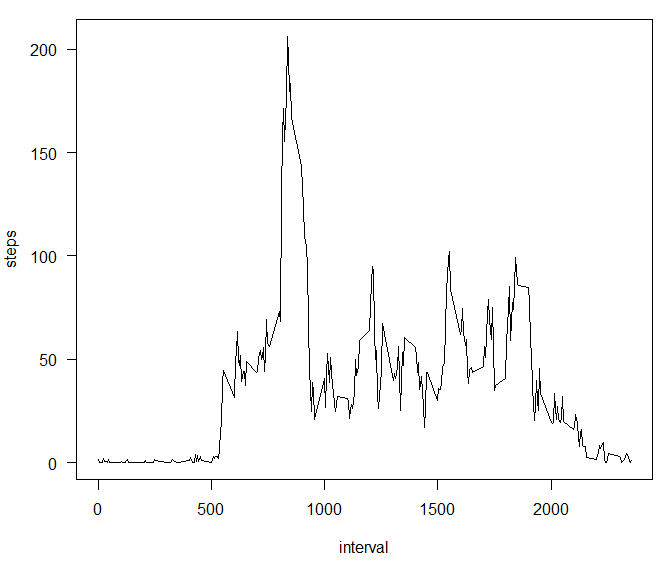
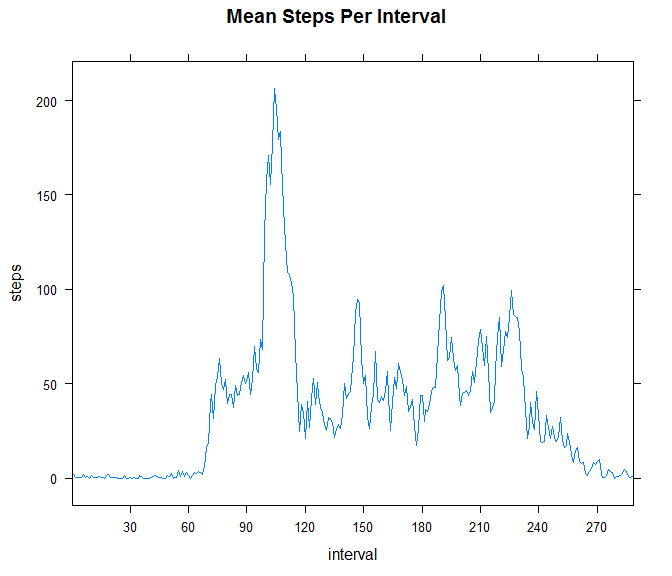
Second submission - cleanup

diff --git a/PA1_template.html b/PA1_template.html
@@ -78,21 +78,25 @@ if (file.exists(&quot;activity.csv&quot;) == F) {
         df.org &lt;- read.csv(unz(fileZip,&quot;activity.csv&quot;))
 }
 
-# Convert the date into POSICct
+# Convert the date into POSIXct
 df.org$date &lt;- as.POSIXct(df.org$date)
+
+# Convert the interval into factor
+df.org$interval &lt;- as.factor(df.org$interval)
+
 str(df.org)</code></pre>
 <pre><code>## 'data.frame':    17568 obs. of  3 variables:
 ##  $ steps   : int  NA NA NA NA NA NA NA NA NA NA ...
 ##  $ date    : POSIXct, format: &quot;2012-10-01&quot; &quot;2012-10-01&quot; ...
-##  $ interval: int  0 5 10 15 20 25 30 35 40 45 ...</code></pre>
+##  $ interval: Factor w/ 288 levels &quot;0&quot;,&quot;5&quot;,&quot;10&quot;,&quot;15&quot;,..: 1 2 3 4 5 6 7 8 9 10 ...</code></pre>
 <p>Using the reshape package’s melt and cast functions, transform the original data set into required format to answer the questions</p>
-<pre class="r"><code>library(reshape)
-
-molten &lt;- melt(df.org, id.vars=c(&quot;date&quot;, &quot;interval&quot;), na.rm=TRUE)
+<pre class="r"><code>require(reshape)</code></pre>
+<pre><code>## Loading required package: reshape</code></pre>
+<pre class="r"><code>molten &lt;- melt(df.org, id.vars=c(&quot;date&quot;, &quot;interval&quot;), na.rm=TRUE)
 str(molten)</code></pre>
 <pre><code>## 'data.frame':    15264 obs. of  4 variables:
 ##  $ date    : POSIXct, format: &quot;2012-10-02&quot; &quot;2012-10-02&quot; ...
-##  $ interval: int  0 5 10 15 20 25 30 35 40 45 ...
+##  $ interval: Factor w/ 288 levels &quot;0&quot;,&quot;5&quot;,&quot;10&quot;,&quot;15&quot;,..: 1 2 3 4 5 6 7 8 9 10 ...
 ##  $ variable: Factor w/ 1 level &quot;steps&quot;: 1 1 1 1 1 1 1 1 1 1 ...
 ##  $ value   : int  0 0 0 0 0 0 0 0 0 0 ...</code></pre>
 <p>Now that we have the molten data from the original data set, we can calculate the aggregate per day</p>
@@ -115,23 +119,25 @@ Median number of steps per day = 10765</code></pre>
 <p>Fist we cast the molten data into a new data frame which can help us answer this question</p>
 <pre class="r"><code>steps.per.interval &lt;- cast(molten, interval ~ variable, mean)</code></pre>
 <p>We plot a time series of the 5-minute interval (x-axis) and the average number of steps taken, averaged accross all days (y-axis)</p>
-<pre class="r"><code>par(mar = c(5,4,1,1), las=1)
-with(steps.per.interval, plot(interval, steps, type=&quot;l&quot;))</code></pre>
[1 lines of base64/hex data omitted]
+<pre class="r"><code>require(lattice)</code></pre>
+<pre><code>## Loading required package: lattice</code></pre>
+<pre class="r"><code>xaxis.ticks &lt;- seq(0, nrow(steps.per.interval), by = 30)
+xyplot(steps ~ interval, data = steps.per.interval, main = &quot;Mean Steps Per Interval&quot;, layout=c(1,1), type=c(&quot;l&quot;), scales=list(x=list(at=xaxis.ticks)))</code></pre>
[1 lines of base64/hex data omitted]
 <p>Which 5-minute interval, on average across all the days in the dataset, contains the maximum number of steps?</p>
-<pre class="r"><code>with(steps.per.interval, interval[which(steps == max(steps))])</code></pre>
-<pre><code>## [1] 835</code></pre>
+<pre class="r"><code>interval.with.maxsteps &lt;- with(steps.per.interval, interval[which(steps == max(steps))])</code></pre>
+<pre><code>Interval with maximum steps = 835</code></pre>
 </div>
 <div id="imputing-missing-values" class="section level2">
 <h2>Imputing missing values</h2>
-<p>Create a new data frame with the missing values replaces by the mean steps per interval</p>
+<p>Create a new data frame with the missing values replaced by the mean steps per interval</p>
 <pre class="r"><code>df.imp &lt;- df.org
 df.imp$steps &lt;- ifelse(is.na(df.org$steps) == TRUE, steps.per.interval$steps[steps.per.interval$interval %in% df.org$interval], df.org$steps)
 str(df.imp)</code></pre>
 <pre><code>## 'data.frame':    17568 obs. of  3 variables:
 ##  $ steps   : num  1.717 0.3396 0.1321 0.1509 0.0755 ...
 ##  $ date    : POSIXct, format: &quot;2012-10-01&quot; &quot;2012-10-01&quot; ...
-##  $ interval: int  0 5 10 15 20 25 30 35 40 45 ...</code></pre>
+##  $ interval: Factor w/ 288 levels &quot;0&quot;,&quot;5&quot;,&quot;10&quot;,&quot;15&quot;,..: 1 2 3 4 5 6 7 8 9 10 ...</code></pre>
 <p>Melt the new data frame</p>
 <pre class="r"><code>molten.imp &lt;- melt(df.imp, id=c(&quot;date&quot;, &quot;interval&quot;))</code></pre>
 <p>Now that we have the molten data from the imputed data set, we can calculate the aggregate per day</p>
@@ -154,15 +160,14 @@ Median number of steps per day = 10765</code></pre>
 <h2>Are there differences in activity patterns between weekdays and weekends?</h2>
 <p>Create a new variable representing the weekday</p>
 <pre class="r"><code>df.imp$day &lt;- as.factor(ifelse(weekdays(df.imp$date) %in% c(&quot;Saturday&quot;, &quot;Sunday&quot;), &quot;weekend&quot;, &quot;weekday&quot;))
-df.imp$interval &lt;- as.factor(df.imp$interval)</code></pre>
+#df.imp$interval &lt;- as.factor(df.imp$interval)</code></pre>
 <p>Melt this again to cater for the new variable added.</p>
 <pre class="r"><code>molten.new &lt;- melt(df.imp, id=c(&quot;day&quot;, &quot;interval&quot;), measure=c(&quot;steps&quot;))
 weekday.cast &lt;- cast(molten.new, day+interval~variable, mean)</code></pre>
 <p>Plot the average steps per interval for the weekend days and week days.</p>
 <pre class="r"><code>#Create the Weekend vs Weekday plot
-require(lattice)</code></pre>
-<pre><code>## Loading required package: lattice</code></pre>
-<pre class="r"><code>xaxis.ticks &lt;- seq(0, nrow(weekday.cast), by = 30)
+require(lattice)
+xaxis.ticks &lt;- seq(0, nrow(weekday.cast), by = 30)
 xyplot(steps ~ interval | day, data = weekday.cast, layout=c(1,2), type=c(&quot;l&quot;), scales=list(x=list(at=xaxis.ticks)))</code></pre>
[1 lines of base64/hex data omitted]
 </div>

diff --git a/PA1_template.md b/PA1_template.md
@@ -33,8 +33,12 @@ if (file.exists("activity.csv") == TRUE){
         df.org <- read.csv(unz(fileZip,"activity.csv"))
 }
 
-# Convert the date into POSICct
+# Convert the date into POSIXct
 df.org$date <- as.POSIXct(df.org$date)
+
+# Convert the interval into factor
+df.org$interval <- as.factor(df.org$interval)
+
 str(df.org)
 ```
 
@@ -42,15 +46,21 @@ str(df.org)
 ## 'data.frame':	17568 obs. of  3 variables:
 ##  $ steps   : int  NA NA NA NA NA NA NA NA NA NA ...
 ##  $ date    : POSIXct, format: "2012-10-01" "2012-10-01" ...
-##  $ interval: int  0 5 10 15 20 25 30 35 40 45 ...
+##  $ interval: Factor w/ 288 levels "0","5","10","15",..: 1 2 3 4 5 6 7 8 9 10 ...
 ```
 
 Using the reshape package's melt and cast functions, transform the original data set into required format to answer the questions
 
 
 ```r
-library(reshape)
+require(reshape)
+```
 
+```
+## Loading required package: reshape
+```
+
+```r
 molten <- melt(df.org, id.vars=c("date", "interval"), na.rm=TRUE)
 str(molten)
 ```
@@ -58,7 +68,7 @@ str(molten)
 ```
 ## 'data.frame':	15264 obs. of  4 variables:
 ##  $ date    : POSIXct, format: "2012-10-02" "2012-10-02" ...
-##  $ interval: int  0 5 10 15 20 25 30 35 40 45 ...
+##  $ interval: Factor w/ 288 levels "0","5","10","15",..: 1 2 3 4 5 6 7 8 9 10 ...
 ##  $ variable: Factor w/ 1 level "steps": 1 1 1 1 1 1 1 1 1 1 ...
 ##  $ value   : int  0 0 0 0 0 0 0 0 0 0 ...
 ```
@@ -104,8 +114,16 @@ steps.per.interval <- cast(molten, interval ~ variable, mean)
 We plot a time series of the 5-minute interval (x-axis) and the average number of steps taken, averaged accross all days (y-axis)
 
 ```r
-par(mar = c(5,4,1,1), las=1)
-with(steps.per.interval, plot(interval, steps, type="l"))
+require(lattice)
+```
+
+```
+## Loading required package: lattice
+```
+
+```r
+xaxis.ticks <- seq(0, nrow(steps.per.interval), by = 30)
+xyplot(steps ~ interval, data = steps.per.interval, main = "Mean Steps Per Interval", layout=c(1,1), type=c("l"), scales=list(x=list(at=xaxis.ticks)))
 ```
 
 ![plot of chunk Mean_Steps_Per_Interval](./PA1_template_files/figure-html/Mean_Steps_Per_Interval.png) 
@@ -113,16 +131,16 @@ with(steps.per.interval, plot(interval, steps, type="l"))
 Which 5-minute interval, on average across all the days in the dataset, contains the maximum number of steps?
 
 ```r
-with(steps.per.interval, interval[which(steps == max(steps))])
+interval.with.maxsteps <- with(steps.per.interval, interval[which(steps == max(steps))])
 ```
 
 ```
-## [1] 835
+Interval with maximum steps = 835
 ```
 
 ## Imputing missing values
 
-Create a new data frame with the missing values replaces by the mean steps per interval
+Create a new data frame with the missing values replaced by the mean steps per interval
 
 ```r
 df.imp <- df.org
@@ -134,7 +152,7 @@ str(df.imp)
 ## 'data.frame':	17568 obs. of  3 variables:
 ##  $ steps   : num  1.717 0.3396 0.1321 0.1509 0.0755 ...
 ##  $ date    : POSIXct, format: "2012-10-01" "2012-10-01" ...
-##  $ interval: int  0 5 10 15 20 25 30 35 40 45 ...
+##  $ interval: Factor w/ 288 levels "0","5","10","15",..: 1 2 3 4 5 6 7 8 9 10 ...
 ```
 
 Melt the new data frame
@@ -184,7 +202,7 @@ Create a new variable representing the weekday
 
 ```r
 df.imp$day <- as.factor(ifelse(weekdays(df.imp$date) %in% c("Saturday", "Sunday"), "weekend", "weekday"))
-df.imp$interval <- as.factor(df.imp$interval)
+#df.imp$interval <- as.factor(df.imp$interval)
 ```
 
 Melt this again to cater for the new variable added.
@@ -199,13 +217,6 @@ Plot the average steps per interval for the weekend days and week days.
 ```r
 #Create the Weekend vs Weekday plot
 require(lattice)
-```
-
-```
-## Loading required package: lattice
-```
-
-```r
 xaxis.ticks <- seq(0, nrow(weekday.cast), by = 30)
 xyplot(steps ~ interval | day, data = weekday.cast, layout=c(1,2), type=c("l"), scales=list(x=list(at=xaxis.ticks)))
 ```
